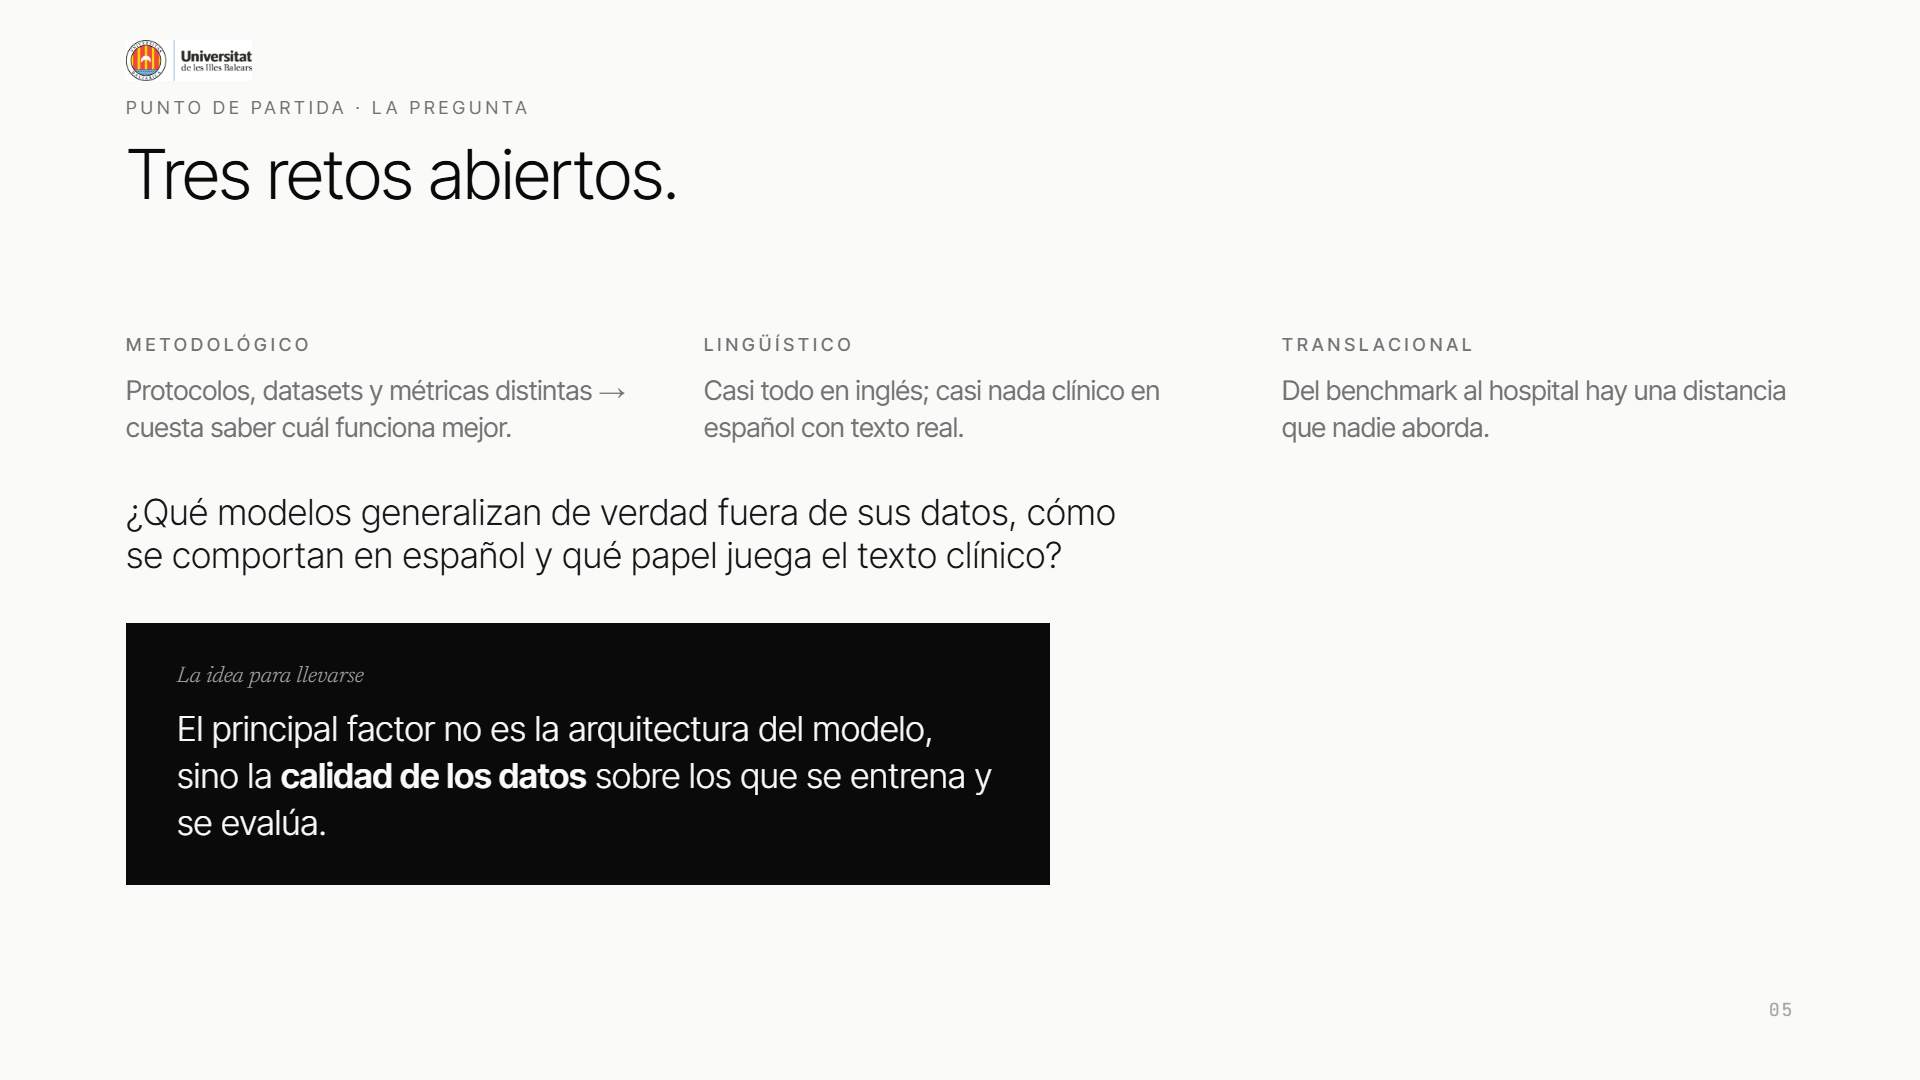
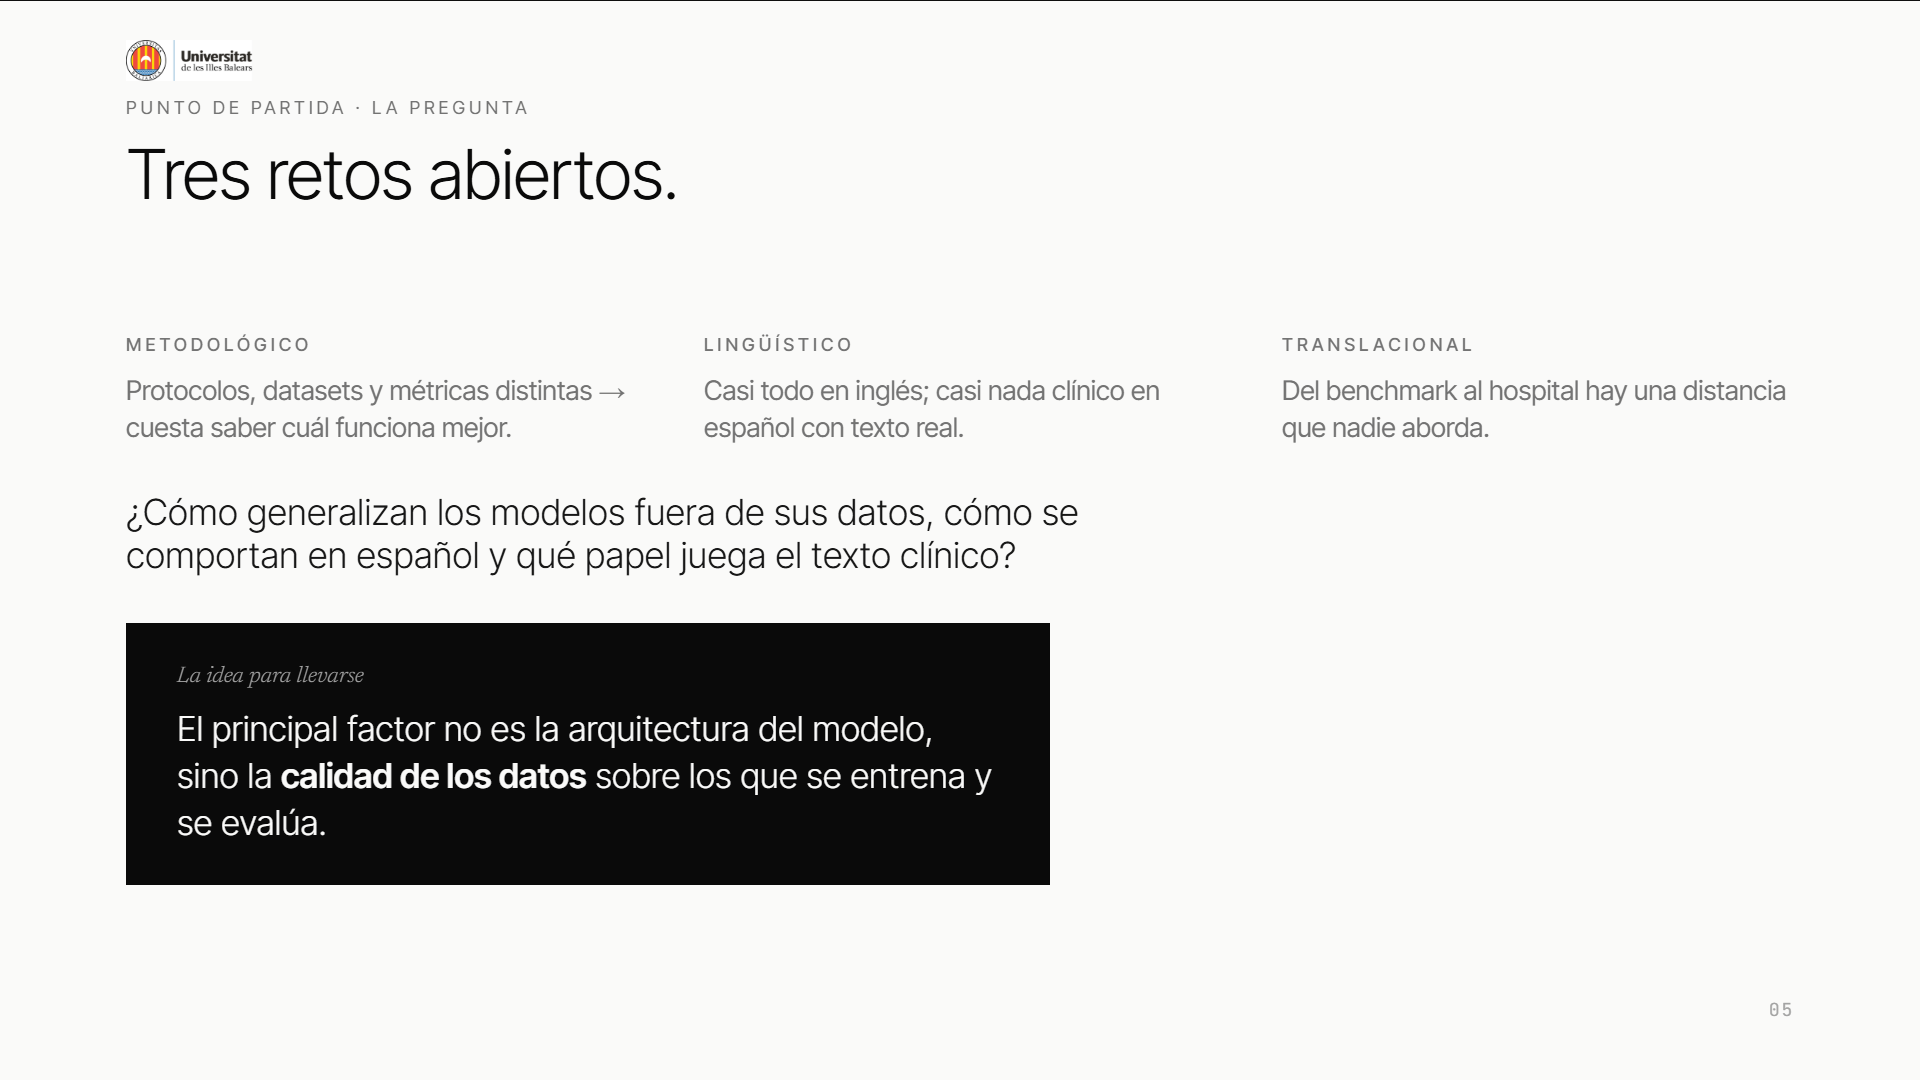
deck: reformula pregunta slide 5 y retitula slide 9 (metodologia/heterogeneidad)

Changed region(s): [[0.0625, 0.4583, 0.5938, 0.55]]

diff --git a/deck/index.html b/deck/index.html
@@ -335,7 +335,7 @@
         <div><div class="eyebrow">Lingüístico</div><div class="muted" style="margin-top:12px; font-size:18px; line-height:1.35">Casi todo en inglés; casi nada clínico en español con texto real.</div></div>
         <div><div class="eyebrow">Translacional</div><div class="muted" style="margin-top:12px; font-size:18px; line-height:1.35">Del benchmark al hospital hay una distancia que nadie aborda.</div></div>
       </div>
-      <div class="lead" style="font-size:24px; max-width:48ch">¿Qué modelos generalizan de verdad fuera de sus datos, cómo se comportan en español y qué papel juega el texto clínico?</div>
+      <div class="lead" style="font-size:24px; max-width:48ch">¿Cómo generalizan los modelos fuera de sus datos, cómo se comportan en español y qué papel juega el texto clínico?</div>
       <div class="announce"><span class="lbl">La idea para llevarse</span>El principal factor no es la arquitectura del modelo, sino la <b>calidad de los datos</b> sobre los que se entrena y se evalúa.</div>
     </div>
     <div class="pageno mono">05</div>
@@ -412,7 +412,7 @@
   <!-- ═══ Slide 9 · Escenarios clínicos ═══ -->
   <section class="slide" data-notes="Montamos un banco común de doce datasets públicos, más de setenta mil imágenes, en tres modalidades: dermatoscopia, fotografía clínica e histopatología, de hospitales, atención primaria y repositorios internacionales. La diversidad era intencionada: no optimizar para un único conjunto, sino ver hasta qué punto generaliza al cambiar la modalidad, el dispositivo, la población o el contexto. Por eso, cuando muestre medias entre datasets, son una tendencia descriptiva, nunca un ranking absoluto.">
     <img class="uib-mark" src="assets/537341_escudoUIB_horizontal.png" alt="Universitat de les Illes Balears">
-    <div class="head"><div class="kicker">Materiales · escenarios clínicos</div>
+    <div class="head"><div class="kicker">Metodología · heterogeneidad</div>
       <h2>Evaluación sobre múltiples escenarios clínicos.</h2></div>
     <div class="body" style="flex-direction:column; align-items:stretch; justify-content:flex-start; gap:24px; padding-top:4px">
       <div class="stats" style="gap:60px">
